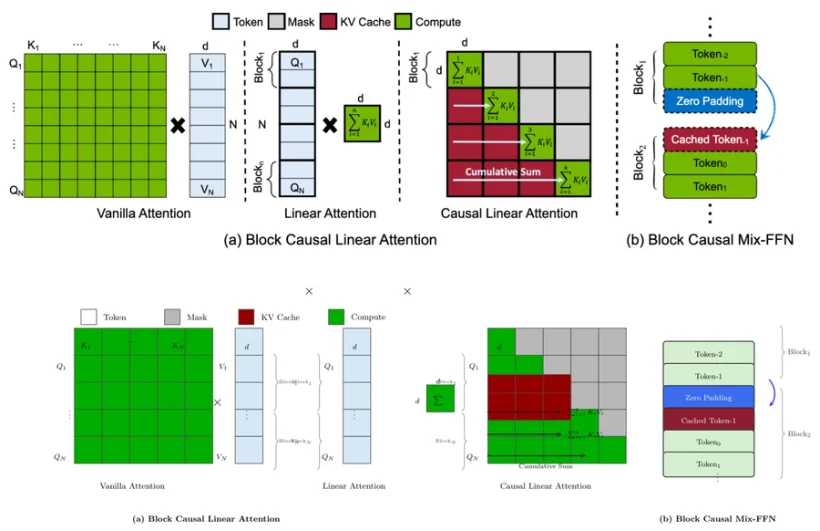
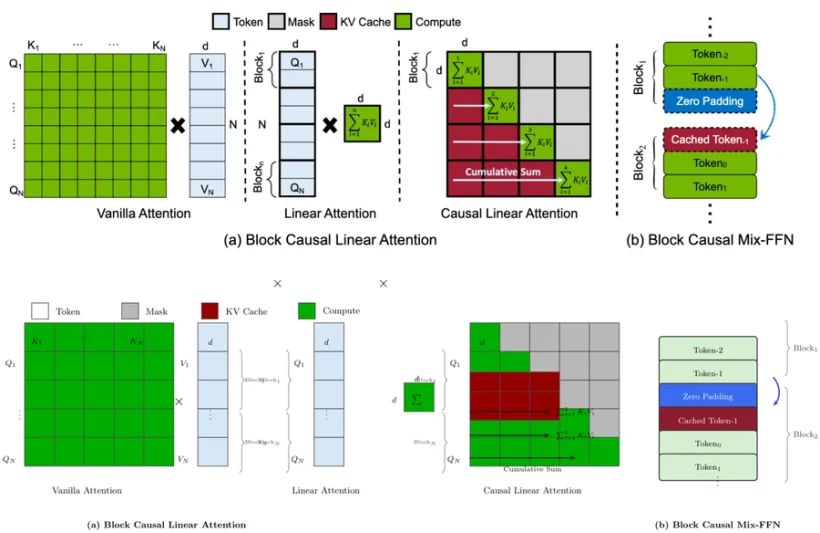
improve(replicas): 第四十一轮 —— 自动裁白边（墨迹差距的真正原因）
一直追的墨迹差距，根因不是布局而是**白边**：
standalone + qlmanage 渲染出来的 PNG 四周有不对称留白
（bbox x 0.066-0.988 / y 0.040-0.970），
所有内容被无意义地缩小了 5-8%。

在 common.py 里加 _trim_white()：
- 用 PIL 找「非纯白像素」的 bbox
- 只裁掉整行/整列全白的部分，保留 6px 缓冲
- 在 cwebp 转换前执行

效果（一步到位）：
  05 墨迹 0.508 → 0.570（原图 0.586，97%）
  06 墨迹 0.307 → 0.347（原图 0.374，93%）
  05 bbox x[0.07,0.99] → x[0.00,1.00]
  06 bbox x[0.066,0.988] → x[0.00,1.00]

AR 重新校准后：05 2.30（-0.1%）、06 3.21（-0.1%）都精确命中。

diff --git a/tools/figlab/common.py b/tools/figlab/common.py
@@ -110,10 +110,40 @@ def _pdf_to_png(pdf: str, out_png: str) -> bool:
     return False
 
 
+def _trim_white(png: str, pad: int = 6) -> str:
+    """裁掉四周近白边距（standalone/qlmanage 会留下不对称留白）。
+
+    只裁「整行/整列都接近纯白」的部分，保留 pad 像素缓冲，
+    让最终图的墨迹占比不被无意义的空白稀释。
+    """
+    try:
+        from PIL import Image
+        import numpy as np
+    except Exception:
+        return png
+    im = Image.open(png).convert("RGB")
+    a = np.asarray(im)
+    nonwhite = (a.min(axis=2) < 250)
+    rows = np.where(nonwhite.any(axis=1))[0]
+    cols = np.where(nonwhite.any(axis=0))[0]
+    if rows.size == 0 or cols.size == 0:
+        return png
+    y0 = max(0, rows[0] - pad)
+    y1 = min(a.shape[0], rows[-1] + 1 + pad)
+    x0 = max(0, cols[0] - pad)
+    x1 = min(a.shape[1], cols[-1] + 1 + pad)
+    if (x1 - x0) >= a.shape[1] - 2 and (y1 - y0) >= a.shape[0] - 2:
+        return png
+    out = png[:-4] + "_trim.png"
+    im.crop((x0, y0, x1, y1)).save(out)
+    return out
+
+
 def _png_to_webp(png: str, out_webp: str, width: int) -> bool:
     if not shutil.which("cwebp"):
         shutil.copy2(png, out_webp[:-5] + ".png")
         return False
+    png = _trim_white(png)
     r = subprocess.run(["cwebp", "-quiet", "-q", "88", "-m", "6",
                         "-resize", str(width), "0", png, "-o", out_webp],
                        capture_output=True, timeout=120)

diff --git a/tools/figlab/reps_tikz.py b/tools/figlab/reps_tikz.py
@@ -45,7 +45,7 @@ ARCH_STYLES = r"""
 
 def fig05() -> str:
     return r"""
-\begin{tikzpicture}[x=1cm, y=0.894cm,
+\begin{tikzpicture}[x=1cm, y=0.871cm,
   box/.style={draw=black!90, line width=1.1pt, rounded corners=4pt, align=center,
               font=\scriptsize, inner sep=2.2pt, minimum height=6.2mm},
   org/.style={box, fill=fxorg, draw=black!65, font=\scriptsize\bfseries},
@@ -261,7 +261,7 @@ def fig05() -> str:
 
 def fig06() -> str:
     return r"""
-\begin{tikzpicture}[x=1cm, y=0.976cm]
+\begin{tikzpicture}[x=1cm, y=0.961cm]
 \tikzset{
   cell/.style={draw=black!70, line width=.7pt, inner sep=0pt},
   tok/.style={cell, fill=fxcolblue},
